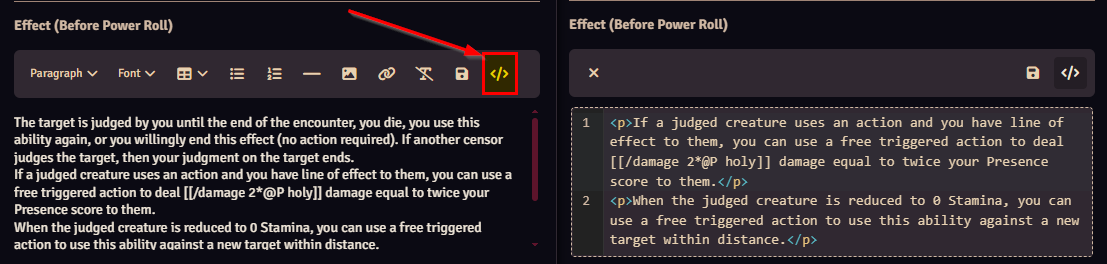
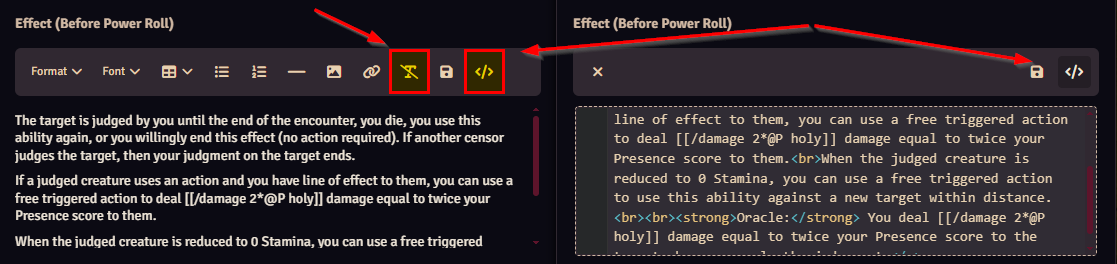
changed screenshot and minor edits

diff --git a/src/docs/Frequently-Asked-Questions.md b/src/docs/Frequently-Asked-Questions.md
@@ -4,18 +4,9 @@
 
 Have a look in the System Wiki if you can find what you are looking for there. Some things are not obvious at first glance, but should be explained in the Wiki
 
-But chances are, the feature you are looking for has not been implemented yet. Feel free to ask about it on the [Foundry discord server](https://discord.com/channels/170995199584108546/1390065189453435041) ir the [MDCDM discord server](https://discord.com/channels/332362513368875008/1342298358664138805).
+But chances are, the feature you are looking for has not been implemented yet. Feel free to ask about it on the [Foundry discord server](https://discord.com/channels/170995199584108546/1390065189453435041) or the [MDCDM discord server](https://discord.com/channels/332362513368875008/1342298358664138805).
 
-If there are no plans yet to implement it, search on GitHub in our [reposiroty issues](https://github.com/MetaMorphic-Digital/draw-steel/issues) if someone else might already have requested it, and if not please open a [feature request ticket](https://github.com/MetaMorphic-Digital/draw-steel/issues/new/choose) on so it is visible on our to-do list.
-
-### What Foundry modules are recommended to enhance this system?
-
-We wouldn't want to call any modules "recommended" given that the system isn't feature complete yet, nor having hit v1.0.0 either. What might be "recommended" now could change in a week.
-
-Beyond this it is important to consider that Foundry modules have a cost that must be evaluated:
-- Content modules cost money. While the system doesn't have any exclusive content modules, there are many premium asset packs for things like scenes and playlists
-- Immersion modules have performance costs. Anything modifying the canvas behavior or display can have performance costs, and since Foundry's rendering happens entirely client-side you need to be aware of the limitations of the weakest computer.
-- Automation modules cost time to configure & troubleshoot, especially during game prep.
+The [issues list](https://github.com/MetaMorphic-Digital/draw-steel/issues) contains all current feature requests, please check there first to see if a request has already been made; feel free to add a comment to existing tickets, as these can help decide prioritization. If you cannot find an existing ticket, please open a [feature request ticket](https://github.com/MetaMorphic-Digital/draw-steel/issues/new/choose) so it can be considered.
 
 ### If I would want to get a certain module compatibility working with the Draw Steel system, what do I need to do about that?
 

diff --git a/src/docs/Enrichers.md b/src/docs/Enrichers.md
@@ -34,6 +34,9 @@ Healing enrichers work similarly to damage enrichers, except the leading command
 - [&ZeroWidthSpace;[/heal @recoveries.recoveryValue]]: will provide healing equal to the owner's recovery value, e.g. for using a healing potion.
 
 ## HTML-mode to clean up text
-If an enricher is not working as intended, in the text editor in which you are trying to add the enricher click on the `</>` symbold to enter HTML mode and make sure, there is not unneccessary characters or code interfering with the enricher.
+If an enricher is not working as intended, in the text editor in which you are trying to add the enricher try the following (see screenshot):
+1. click on the `Ⱦ` symbol to "clear formatting", this usually fixes the issue. If not, then
+2. click on the `</>` symbold to enter HTML mode and make sure, there is not unneccessary characters or code interfering with the enricher.
+
 
 ![HTML clean-up mode explainer](draw-steel/assets/docs/HTML-mode-explainer.png?raw=true "HTML Mode explainer")
